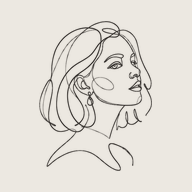
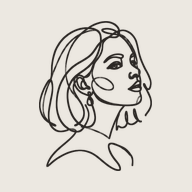
OneDrive: one folder per app under Apps/Origina
Claude-Session: https://claude.ai/code/session_01WT61VZ4MhdTC2Vy4EDZdFG

diff --git a/index.html b/index.html
@@ -8,7 +8,7 @@
 <meta name="theme-color" content="#fbf5ef">
 <link rel="manifest" href="manifest.webmanifest">
 <link rel="icon" href="icons/icon-192.png">
-<link rel="apple-touch-icon" href="icons/apple-touch-icon.png?v=4">
+<link rel="apple-touch-icon" href="icons/apple-touch-icon.png?v=5">
 <meta name="apple-mobile-web-app-capable" content="yes">
 <meta name="mobile-web-app-capable" content="yes">
 <meta name="apple-mobile-web-app-title" content="OGS">

diff --git a/sw.js b/sw.js
@@ -1,5 +1,5 @@
 // 版本號：每次更新內容就改這裡，手機才會抓到新版
-const CACHE = 'ogs-v7';
+const CACHE = 'ogs-v8';
 const SHELL = ['./', 'index.html', 'manifest.webmanifest', 'icons/icon-192.png', 'icons/icon-512.png', 'icons/apple-touch-icon.png'];
 
 self.addEventListener('install', e => {
